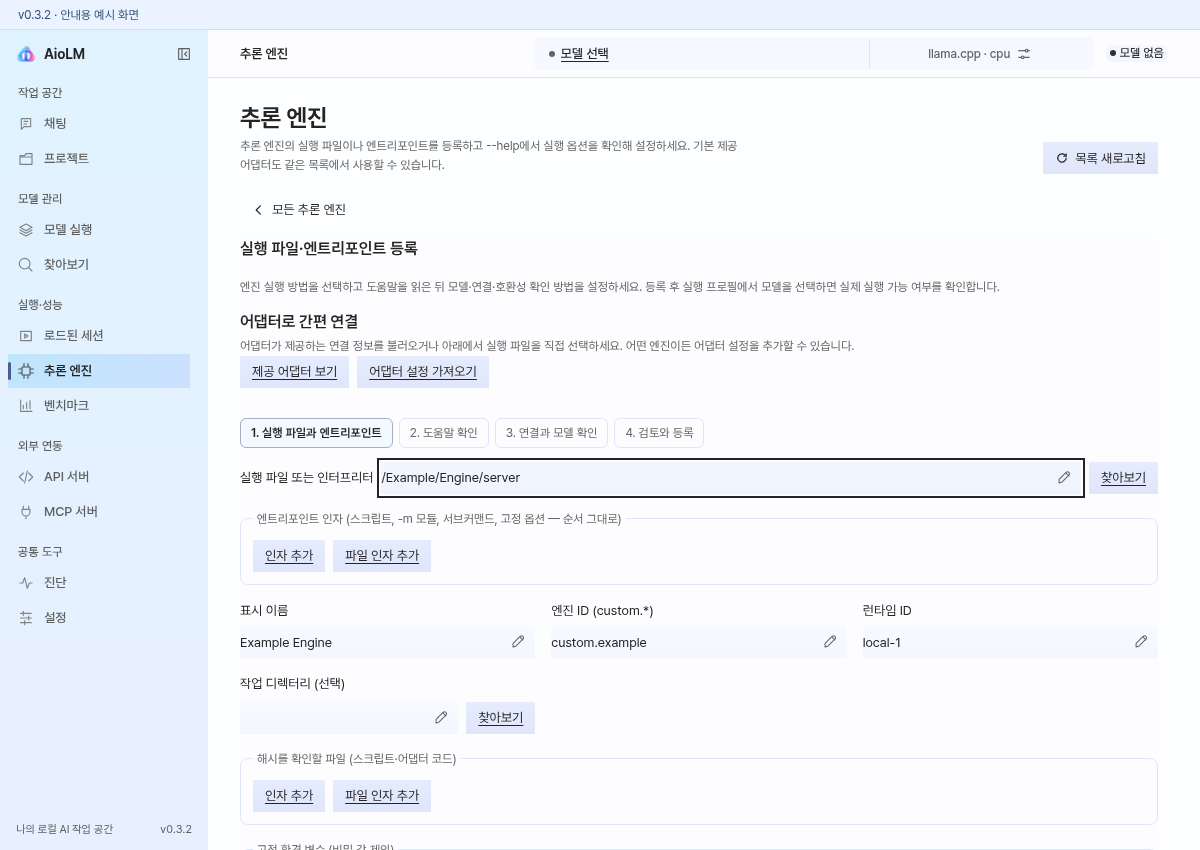
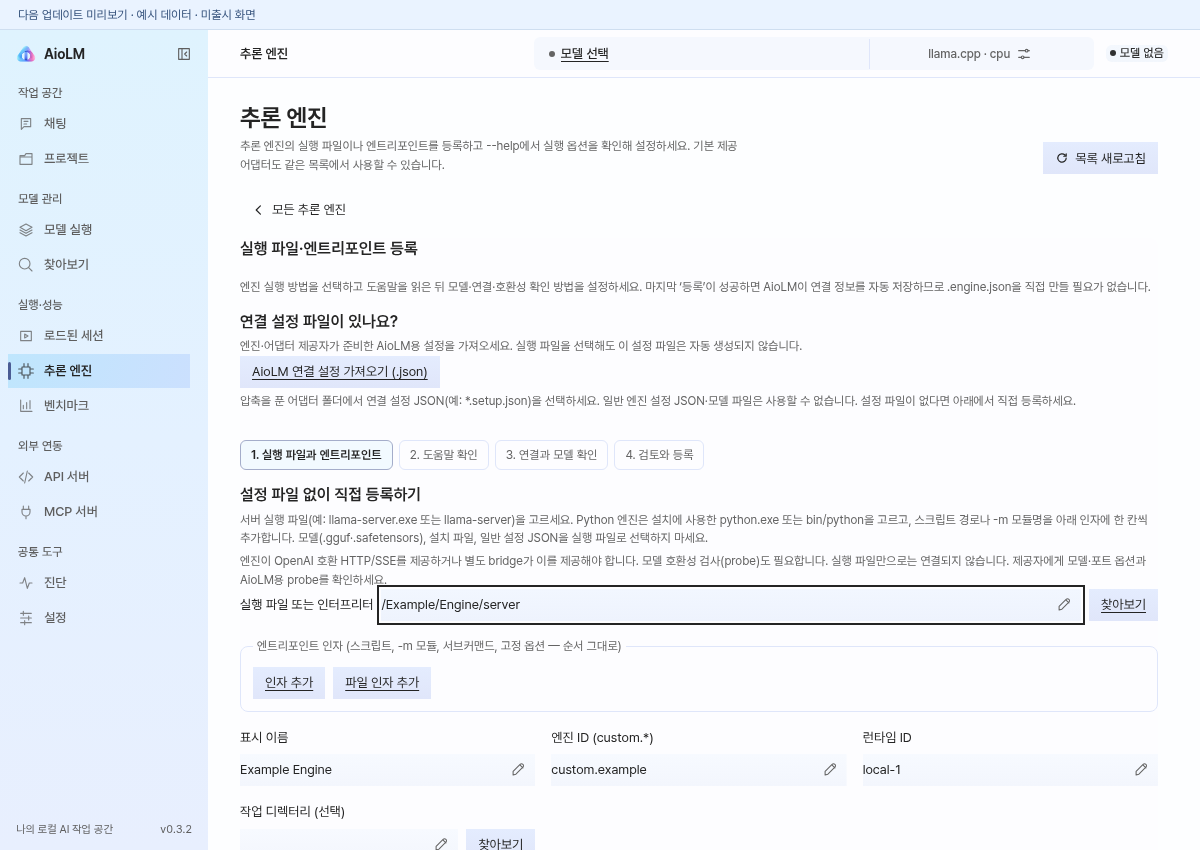
Remove obsolete adapter guidance and explain generated registration data

diff --git a/src/content/guides/ja.ts b/src/content/guides/ja.ts
@@ -2,7 +2,7 @@ import type { GuideContent } from './types';
 const content: GuideContent = {
   title: 'AioLM ガイド', description: '初めての方はインストールから。画面とボタンを順に確認しながら、自分のコンピューターで AI と会話しましょう。',
   navigation: 'ガイド', onPage: '項目へ移動', related: '次のステップ', download: 'すべてのダウンロードを見る',
-  screenshotNotice: 'v0.3.2 の実際の画面構成にサンプルデータを入れた表示例です。名前・パス・インストール状態は説明用で、実際のインストールやモデル実行の検証記録ではありません。',
+  screenshotNotice: '大半は公開済みv0.3.2の画面です。手動登録の最初の画面は未リリースのソース変更のプレビューです。すべてサンプルデータを使い、実際のインストールやモデル実行の検証記録ではありません。',
   enlarge: '画面を拡大', close: '閉じる',
   panHint: '左右に動かすと、ほかの部分も見られます。',
   guides: {
@@ -54,7 +54,11 @@ const content: GuideContent = {
             "rows": [
               [
                 "AioLM用設定パッケージ",
-                "フォルダー全体を展開し、読み込みで*.setup.jsonを選択します。同梱ファイルも一緒に保管します。"
+                "提供者が用意する入力フォームです。例：*.setup.json。フォルダー全体を展開して設定を読み込み、同梱の起動・検査プログラムも保管します。"
+              ],
+              [
+                "完成済みの登録JSON",
+                "提供者・開発者が用意したファイルがある場合だけ、詳細：登録ファイル（manifest）を読み込むで選びます。*.engine.jsonはファイル名の例で、手動登録には不要です。"
               ],
               [
                 "サーバー実行ファイル",
@@ -66,11 +70,11 @@ const content: GuideContent = {
               ],
               [
                 "モデル・通常の設定",
-                "モデル（.gguf、.safetensors）は登録後のモデル選択で指定します。deployment.jsonなどはアダプターが別の入力欄で求めた場合だけ選びます。AioLM接続設定とは別です。"
+                "モデル（.gguf、.safetensors）は登録後のモデル選択で指定します。deployment.jsonなどはアダプターが求めた場合だけ選びます。AioLMの接続設定・登録JSONとは別です。"
               ]
             ]
           },
-          "note": "*.setup.jsonは名前の例です。内容がAioLM setup v1形式である必要があり、通常のJSONの名前を変えるだけでは使えません。"
+          "note": "手動登録では*.engine.jsonを自分で作る必要はありません。フォームへの入力後、登録に成功するとAioLMが登録情報を内部保存します。別の.engine.jsonとしては書き出しません。実行ファイルを選ぶだけでは、どちらの入力用JSONも生成されません。JSONの名前を変えても内容は変わりません。"
         },
         {
           "id": "add",
@@ -85,11 +89,10 @@ const content: GuideContent = {
           "id": "setup",
           "title": "2. 接続設定があれば読み込む",
           "steps": [
-            "アダプター設定を読み込むを押し、展開したフォルダーのAioLM用*.setup.jsonを選びます。",
+            "AioLM接続設定を読み込む (.json) を押し、展開したフォルダーのAioLM用*.setup.jsonを選びます。",
             "提供者の説明に従い、必要なプログラム・フォルダー・ファイルを指定します。コマンドを確認し、インストールを確認して続行を押して4へ進みます。"
           ],
           "code": "展開したアダプターフォルダー/\n  engine.setup.json  ← 読み込みで選択\n  prepare.py        ← 一緒に保管\n  probe.py          ← 一緒に保管",
-          "note": "v0.3.2の「付属アダプターを表示」は、以前のStrata設定例1件を開くメニューです。インストール済みエンジンの検索やエンジンのインストールは行わず、接続に必須でもありません。",
           "more": [
             {
               "title": "設定ファイルがない場合",
@@ -107,7 +110,7 @@ const content: GuideContent = {
             "表示名、エンジンID（custom.*形式、例：custom.my-engine）、ランタイムID（例：local-1）を入れ、次へを押します。モデル・ポートのオプションやprobeが不明なら提供者に確認してください。"
           ],
           "image": "adapter-setup",
-          "caption": "公開済みv0.3.2の共通手動登録画面です。Example Engineとパスは説明用で、自分の実際のファイルを選びます。",
+          "caption": "未リリースのソース変更による手動登録画面のプレビューです。Example Engineとパスは例なので、自分の実際のファイルを選んでください。推論成功の証拠ではありません。",
           "more": [
             {
               "title": "直接サーバーとbridgeの選び方",
@@ -155,7 +158,7 @@ const content: GuideContent = {
           "id": "review",
           "title": "6. 登録して実際のモデルを動かす",
           "steps": [
-            "登録内容を確認 → 登録を押します。モデル選択で新しいエンジン・ランタイムと対応モデルファイルまたは完全なモデルフォルダーを選びます。",
+            "登録内容を確認 → 登録を押します。成功すると接続情報がアプリ内に自動保存されます。モデル選択で新しいエンジン・ランタイムと対応モデルファイルまたは完全なモデルフォルダーを選びます。",
             "モデル互換性検査を通過してから実行します。短い質問への回答、生成キャンセル後の再質問、停止・再起動を確認します。"
           ],
           "image": "adapter-review",

diff --git a/src/content/guides/ko.ts b/src/content/guides/ko.ts
@@ -2,7 +2,7 @@ import type { GuideContent } from './types';
 const content: GuideContent = {
   title: 'AioLM 사용 안내', description: '처음이라면 설치부터 시작하세요. 화면에 표시된 버튼을 하나씩 누르며 내 컴퓨터에서 AI와 대화할 수 있습니다.',
   navigation: '사용 안내', onPage: '바로 이동', related: '이어서 보기', download: '전체 다운로드 파일 보기',
-  screenshotNotice: 'v0.3.2의 실제 화면 구성에 예시 데이터를 넣었습니다. 모델 이름·경로·설치 상태는 설명용이며, 실제 설치나 모델 실행을 검증한 기록은 아닙니다.',
+  screenshotNotice: '대부분은 공개된 v0.3.2 화면이며, 직접 등록의 첫 화면은 아직 배포되지 않은 소스 변경의 미리보기입니다. 모두 예시 데이터를 사용하며 실제 설치나 모델 실행을 검증한 기록이 아닙니다.',
   enlarge: '화면 크게 보기', close: '닫기',
   panHint: '화면을 좌우로 밀어 다른 부분도 볼 수 있습니다.',
   guides: {
@@ -54,7 +54,11 @@ const content: GuideContent = {
             "rows": [
               [
                 "AioLM용 연결 설정 묶음",
-                "먼저 압축을 모두 푸세요. 설정 가져오기에서 *.setup.json을 선택합니다. 같은 폴더의 동반 파일도 보관하세요."
+                "제공자가 미리 만든 입력 양식입니다. 예: *.setup.json. 압축을 모두 풀고 설정을 가져오세요. 함께 받은 실행·검사 파일도 보관합니다."
+              ],
+              [
+                "완성된 등록 JSON",
+                "제공자·개발자가 준비한 파일이 있을 때만 고급: 등록 파일(manifest) 가져오기에서 선택합니다. *.engine.json은 파일 이름의 예이며 직접 등록에는 필요 없습니다."
               ],
               [
                 "서버 실행 프로그램",
@@ -66,11 +70,11 @@ const content: GuideContent = {
               ],
               [
                 "모델·일반 설정 파일",
-                ".gguf·.safetensors는 등록 후 모델 선택에서 지정합니다. 엔진의 deployment.json 등은 어댑터가 별도 입력란에서 요청할 때만 고릅니다. AioLM 연결 설정과 다릅니다."
+                ".gguf·.safetensors는 등록 후 모델 선택에서 지정합니다. 엔진의 deployment.json 등은 어댑터가 요청할 때만 고릅니다. AioLM의 연결 설정·등록 JSON과는 별개입니다."
               ]
             ]
           },
-          "note": "*.setup.json은 파일 이름의 예시입니다. 내용이 AioLM용 setup v1 형식이어야 합니다. 일반 JSON의 이름만 바꿔도 연결되지는 않습니다."
+          "note": "직접 등록할 때 *.engine.json을 따로 만들 필요는 없습니다. 입력을 마치고 등록에 성공하면 AioLM이 등록 정보를 내부에 저장하며, 별도의 .engine.json으로 내보내지는 않습니다. 실행 파일만 선택해도 두 입력용 JSON이 생기는 것은 아닙니다. JSON의 이름만 바꿔도 내용은 변하지 않습니다."
         },
         {
           "id": "add",
@@ -85,11 +89,10 @@ const content: GuideContent = {
           "id": "setup",
           "title": "2. 연결 설정이 있다면 가져오세요",
           "steps": [
-            "어댑터 설정 가져오기를 누르고, 압축을 푼 폴더의 AioLM용 *.setup.json을 선택하세요.",
+            "AioLM 연결 설정 가져오기 (.json)를 누르고, 압축을 푼 폴더의 AioLM용 *.setup.json을 선택하세요.",
             "설정이 요청하는 프로그램·폴더·파일을 제공자의 설명대로 지정합니다. 명령을 확인한 뒤 설치 정보 확인하고 계속을 누르세요. 이제 4번으로 이동합니다."
           ],
           "code": "받은 어댑터 폴더/\n  engine.setup.json  ← 가져오기에서 선택\n  prepare.py        ← 함께 보관\n  probe.py          ← 함께 보관",
-          "note": "v0.3.2의 「제공 어댑터 보기」는 Strata 예시 설정 하나를 여는 이전 메뉴입니다. 설치된 엔진을 찾거나 엔진을 설치하는 기능이 아니며, 연결에 필수인 버튼도 아닙니다.",
           "more": [
             {
               "title": "설정 파일을 받지 못했다면",
@@ -107,7 +110,7 @@ const content: GuideContent = {
             "표시 이름은 알아보기 쉽게, 엔진 ID는 custom.* 형식으로, 예를 들어 custom.my-engine, 런타임 ID는 local-1로 적으세요. 다음을 누릅니다. 모델·포트 옵션과 probe 정보를 모른다면 먼저 제공자에게 확인해야 합니다."
           ],
           "image": "adapter-setup",
-          "caption": "출시된 v0.3.2의 공통 직접 등록 화면입니다. Example Engine과 경로는 설명용입니다. 내 컴퓨터의 실제 파일을 선택하세요.",
+          "caption": "아직 배포되지 않은 소스 변경의 직접 등록 화면 미리보기입니다. Example Engine과 경로는 설명용이므로 내 컴퓨터의 실제 파일을 선택하세요. 추론 성공의 증거는 아닙니다.",
           "more": [
             {
               "title": "직접 서버와 bridge 중 무엇을 고르나요?",
@@ -155,7 +158,7 @@ const content: GuideContent = {
           "id": "review",
           "title": "6. 등록한 뒤 실제 모델을 실행하세요",
           "steps": [
-            "등록 내용 검토 → 등록을 누릅니다. 모델 선택에서 새 엔진·런타임과 지원 모델 파일 또는 전체 모델 폴더를 고르세요.",
+            "등록 내용 검토 → 등록을 누르세요. 성공하면 연결 정보가 앱에 자동 저장됩니다. 모델 선택에서 새 엔진·런타임과 지원 모델 파일 또는 전체 모델 폴더를 고르세요.",
             "모델 호환성 확인을 통과한 뒤 실행합니다. 짧은 질문에 답하는지, 생성 취소 후 다시 질문할 수 있는지, 중지·재시작되는지 확인하세요."
           ],
           "image": "adapter-review",

diff --git a/src/content/guides/en.ts b/src/content/guides/en.ts
@@ -2,7 +2,7 @@ import type { GuideContent } from './types';
 const content: GuideContent = {
   title: 'AioLM guides', description: 'New here? Install the app first, then follow the pictures and buttons to start a conversation on your own computer.',
   navigation: 'Guides', onPage: 'Jump to', related: 'Next steps', download: 'See all download files',
-  screenshotNotice: 'These pictures use the actual v0.3.2 interface with example data. Names, paths and installation states are illustrative; they are not records of a real installation or model run.',
+  screenshotNotice: 'Most pictures show the released v0.3.2 interface. The first manual-registration screen previews an unreleased source update. All use example data; none records a real installation or model run.',
   enlarge: 'View larger', close: 'Close',
   panHint: 'Swipe sideways to see the rest of the image.',
   guides: {
@@ -54,7 +54,11 @@ const content: GuideContent = {
             "rows": [
               [
                 "AioLM setup package",
-                "Unpack the entire folder. Import its *.setup.json file and keep its companion files together."
+                "The provider prepares this input form, for example *.setup.json. Unpack the entire folder, import the setup and keep its companion programs together."
+              ],
+              [
+                "Completed registration JSON",
+                "Only use a provider/developer-prepared file in Advanced: import registration file (manifest). *.engine.json is an example filename. You do not need this file for manual registration."
               ],
               [
                 "Server executable",
@@ -66,11 +70,11 @@ const content: GuideContent = {
               ],
               [
                 "Model or ordinary configuration",
-                "Select .gguf/.safetensors models after registration. Select deployment.json or another engine configuration only when the adapter specifically asks for it. It is not an AioLM setup recipe."
+                "Select .gguf/.safetensors models after registration. Select deployment.json or another engine configuration only when the adapter asks for it. These are different from both AioLM setup and registration JSON."
               ]
             ]
           },
-          "note": "*.setup.json is a naming example. The contents must use the AioLM setup v1 format. Renaming an ordinary JSON file does not convert it."
+          "note": "You do not need to create *.engine.json for manual registration. AioLM builds the registration from the completed form and saves it internally after Register succeeds; it does not export a separate .engine.json. Selecting an executable alone generates neither input JSON. Changing a JSON filename does not change its contents."
         },
         {
           "id": "add",
@@ -85,11 +89,10 @@ const content: GuideContent = {
           "id": "setup",
           "title": "2. Import a connection setup, if available",
           "steps": [
-            "Select Import adapter setup and choose the AioLM *.setup.json from the unpacked folder.",
+            "Select Import AioLM connection setup (.json) and choose the AioLM *.setup.json from the unpacked folder.",
             "Fill in the requested executable, folders and files as the provider instructs. Review the command and select Check installation and continue. Continue to step 4."
           ],
           "code": "Unpacked adapter folder/\n  engine.setup.json  ← select when importing\n  prepare.py        ← keep together\n  probe.py          ← keep together",
-          "note": "In v0.3.2, “Browse provided adapters” opens one older Strata example recipe. It does not discover installed engines or install an engine, and is not required for a connection.",
           "more": [
             {
               "title": "What if I did not receive a setup file?",
@@ -107,7 +110,7 @@ const content: GuideContent = {
             "Choose a display name, an engine ID in custom.* format, such as custom.my-engine and a runtime ID such as local-1, then select Next. Ask the provider first if you do not know the model/port options or probe command."
           ],
           "image": "adapter-setup",
-          "caption": "The common manual registration form in released v0.3.2. Example Engine and its paths are illustrative; select your actual files.",
+          "caption": "Preview of the manual-registration form in an unreleased source update. Example Engine and its paths are illustrative; select your actual files. This is not an inference result.",
           "more": [
             {
               "title": "Direct server or bridge?",
@@ -155,7 +158,7 @@ const content: GuideContent = {
           "id": "review",
           "title": "6. Register and run a real model",
           "steps": [
-            "Select Review registration details → Register. In model selection, choose the new engine/runtime and a supported model file or complete model folder.",
+            "Select Review registration details → Register. After it succeeds, AioLM automatically saves the connection details in the app. In model selection, choose the new engine/runtime and a supported model file or complete model folder.",
             "Run it after model compatibility checks pass. Check a short answer, cancellation followed by another question, stopping and restarting."
           ],
           "image": "adapter-review",

diff --git a/src/content/guides/zh.ts b/src/content/guides/zh.ts
@@ -2,7 +2,7 @@ import type { GuideContent } from './types';
 const content: GuideContent = {
   title: 'AioLM 使用指南', description: '第一次使用？先安装应用，再对照图片逐个点击按钮，在自己的电脑上开始 AI 对话。',
   navigation: '使用指南', onPage: '跳转到', related: '接着看', download: '查看全部下载文件',
-  screenshotNotice: '图片使用 v0.3.2 的真实界面和示例数据。名称、路径和安装状态仅供说明，不是实际安装或模型运行的验证记录。',
+  screenshotNotice: '大多数图片展示已发布的v0.3.2界面，手动注册的首张界面是尚未发布的源码更新预览。所有图片均使用示例数据，不是实际安装或模型运行的验证记录。',
   enlarge: '放大查看', close: '关闭',
   panHint: '左右滑动可查看图片其他部分。',
   guides: {
@@ -54,7 +54,11 @@ const content: GuideContent = {
             "rows": [
               [
                 "AioLM连接设置包",
-                "先解压整个文件夹，在导入设置中选择*.setup.json，并保留所有配套文件。"
+                "由提供方预先编写的输入表单，例如*.setup.json。解压整个文件夹后导入设置，并保留配套的启动和检查程序。"
+              ],
+              [
+                "完整的注册JSON",
+                "仅在有提供方或开发者准备好的文件时，使用高级：导入注册文件（manifest）。*.engine.json只是文件名示例，手动注册不需要此文件。"
               ],
               [
                 "服务器可执行程序",
@@ -66,11 +70,11 @@ const content: GuideContent = {
               ],
               [
                 "模型或普通配置",
-                ".gguf、.safetensors模型在注册后的模型选择中指定。deployment.json等普通配置仅在适配器单独要求时选择；它不是AioLM连接设置。"
+                ".gguf、.safetensors模型在注册后的模型选择中指定。deployment.json等配置仅在适配器要求时选择；它们与AioLM的连接设置和注册JSON不同。"
               ]
             ]
           },
-          "note": "*.setup.json只是文件命名示例，内容必须符合AioLM setup v1格式。给普通JSON改名无法完成转换。"
+          "note": "手动注册无需自行创建*.engine.json。填写表单并注册成功后，AioLM会在内部保存注册信息，不会另行导出.engine.json。仅选择可执行文件不会生成这两种输入JSON，修改JSON文件名也不会改变其内容。"
         },
         {
           "id": "add",
@@ -85,11 +89,10 @@ const content: GuideContent = {
           "id": "setup",
           "title": "2. 有连接设置时导入",
           "steps": [
-            "点击导入适配器设置，选择解压文件夹中的AioLM专用*.setup.json。",
+            "点击导入AioLM连接设置 (.json)，选择解压文件夹中的AioLM专用*.setup.json。",
             "按提供方说明指定程序、文件夹和文件，检查命令后点击检查安装并继续，然后进入第4步。"
           ],
           "code": "解压后的适配器文件夹/\n  engine.setup.json  ← 导入时选择\n  prepare.py        ← 一起保留\n  probe.py          ← 一起保留",
-          "note": "v0.3.2的“查看随附适配器”只打开旧的Strata设置示例，不会搜索已安装引擎或安装引擎，也不是连接所必需的按钮。",
           "more": [
             {
               "title": "没有收到设置文件怎么办？",
@@ -107,7 +110,7 @@ const content: GuideContent = {
             "填写显示名称、引擎ID（custom.*格式，如custom.my-engine）和运行时ID（如local-1），然后点击下一步。不清楚模型/端口选项或probe时，请先向提供方确认。"
           ],
           "image": "adapter-setup",
-          "caption": "已发布v0.3.2的通用手动注册界面。Example Engine和路径仅作示例，请选择实际文件。",
+          "caption": "尚未发布的源码更新中的手动注册界面预览。Example Engine和路径仅作示例，请选择实际文件。这不是推理成功的证据。",
           "more": [
             {
               "title": "选择直接服务器还是bridge？",
@@ -155,7 +158,7 @@ const content: GuideContent = {
           "id": "review",
           "title": "6. 注册后运行实际模型",
           "steps": [
-            "点击检查注册内容 → 注册，在模型选择中指定新引擎/运行时及支持的模型文件或完整模型文件夹。",
+            "点击检查注册内容 → 注册。成功后，连接信息会自动保存在应用中。在模型选择中指定新引擎/运行时及支持的模型文件或完整模型文件夹。",
             "通过模型兼容性检查后运行，确认能回答简短问题、取消生成后再次提问、停止及重启。"
           ],
           "image": "adapter-review",

diff --git a/tests/unit/guide-screenshots.test.ts b/tests/unit/guide-screenshots.test.ts
@@ -8,13 +8,22 @@ import { getGuides } from '@/content/guides';
 import { locales } from '@/i18n/config';
 
 describe('localized guide screenshot evidence', () => {
-  it('ships each released-UI capture once per language with matching file integrity', () => {
+  it('records the released captures and unreleased registration previews with matching integrity', () => {
     expect(manifest.commit).toBe('e439b52038142439c8c85b112d2949687fa273f2');
     expect(manifest.captures).toHaveLength(locales.length * guideImageIds.length);
+    expect(manifest.captures.filter(item => 'source_commit' in item)).toHaveLength(4);
+    expect(manifest.captures.filter(item => !('source_commit' in item))).toHaveLength(60);
     const files = manifest.captures.map(item => item.file);
     expect(new Set(files).size).toBe(files.length);
     for (const capture of manifest.captures) {
       expect(capture.file).toBe(`${capture.locale}/${capture.id}.png`);
+      expect('source_commit' in capture).toBe(capture.id === 'adapter-setup');
+      if ('source_commit' in capture) {
+        expect(capture.source_commit).toMatch(/^[a-f0-9]{40}$/);
+        expect(capture.source_commit).not.toBe(manifest.commit);
+        expect('released' in capture && capture.released).toBe(false);
+        expect('method' in capture && capture.method).toMatch(/unreleased/i);
+      }
       const bytes = readFileSync(resolve('public/screenshots/guides/v0.3.2', capture.file));
       expect(createHash('sha256').update(bytes).digest('hex')).toBe(capture.sha256);
       expect(bytes.readUInt32BE(16)).toBe(capture.width);

diff --git a/tests/unit/external-engine-evidence.test.ts b/tests/unit/external-engine-evidence.test.ts
@@ -51,6 +51,14 @@ describe('published external CPU verification evidence', () => {
     const details = content.guides.adapters.sections.find(section => section.id === 'verified')?.more;
     expect(details?.[0]?.report?.href).toBe('/verification/external-cpu-2026-10-28.json');
     expect(details?.[0]?.report?.label.trim()).toBeTruthy();
-    expect(content.guides.adapters.sections.find(section => section.id === 'files')?.table?.rows).toHaveLength(4);
+    const sections = content.guides.adapters.sections;
+    const files = sections.find(section => section.id === 'files');
+    expect(files?.table?.rows).toHaveLength(5);
+    expect(files?.table?.rows[0]?.[1]).toContain('*.setup.json');
+    expect(files?.table?.rows[1]?.[1]).toContain('*.engine.json');
+    expect(files?.table?.rows[4]?.[1]).toContain('deployment.json');
+    expect(files?.note).toContain('.engine.json');
+    const automaticSave = { en: 'automatically saves', ko: '자동 저장', ja: '自動保存', zh: '自动保存' };
+    expect(sections.find(section => section.id === 'review')?.steps?.[0]).toContain(automaticSave[locale]);
   });
 });

diff --git a/README.md b/README.md
@@ -172,6 +172,8 @@ it never touches, and the real upper bound of the 24h cutoffs.
 
 `/<locale>/guides` provides installation, first conversation, engine selection and external inference engine setup in all four site languages. Instructions use the visible button names, direct platform download choices and one action per illustrated step. Technical details and validation limits remain in expandable sections. User-facing help stays on the site; GitHub hosts release downloads, source and license.
 
-Guide copy lives in `src/content/guides` and follows v0.3.2. The 64 localized screenshots in `public/screenshots/guides/v0.3.2` render the released desktop React components at commit `e439b52038142439c8c85b112d2949687fa273f2` with synthetic IPC and example data. They show where controls are, not completed native installation, model inference, compatibility probes or device acceptance. This distinction is visible in each article and relevant captions. The manifest records source, dimensions, hashes and highlight positions; tests check file integrity and locale coverage. Capture harnesses and synthetic backend code are not shipped. Images enlarge in an accessible native dialog, with horizontal viewing on small screens.
+Guide copy lives in `src/content/guides`. Of the 64 localized screenshots in `public/screenshots/guides/v0.3.2`, 60 render the released v0.3.2 desktop React components at commit `e439b52038142439c8c85b112d2949687fa273f2`. The four `adapter-setup` images preview the unreleased registration-form source update, which removes the provided-adapter menu and clarifies connection-file roles. The manifest identifies their source separately. All captures use synthetic IPC and example data. They show where controls are, not completed native installation, model inference, compatibility probes or device acceptance. This distinction is visible in each article and relevant captions. The manifest records source, dimensions, hashes and highlight positions; tests check file integrity and locale coverage. Capture harnesses and synthetic backend code are not shipped. Images enlarge in an accessible native dialog, with horizontal viewing on small screens.
+
+The external-engine guide distinguishes three JSON roles: provider-authored `*.setup.json` input recipes with companion programs, provider/developer-prepared completed registration JSON for advanced import (`*.engine.json` is only a filename example), and the engine's own configuration files such as `deployment.json`. Manual registration does not require either import file: the form constructs the registration and successful registration saves it internally as `adapters/<engine-id>/<runtime-id>/registration.json`. The app does not export a separate `.engine.json`, generate the import files from an executable selection, or infer unknown model/port/probe settings.
 
 Preserve the unresolved F09, overall Linux acceptance and real update-installation/UI limits when updating the guides. Do not replace the original device-validation materials or v0.3.1 fixtures with these UI examples.
